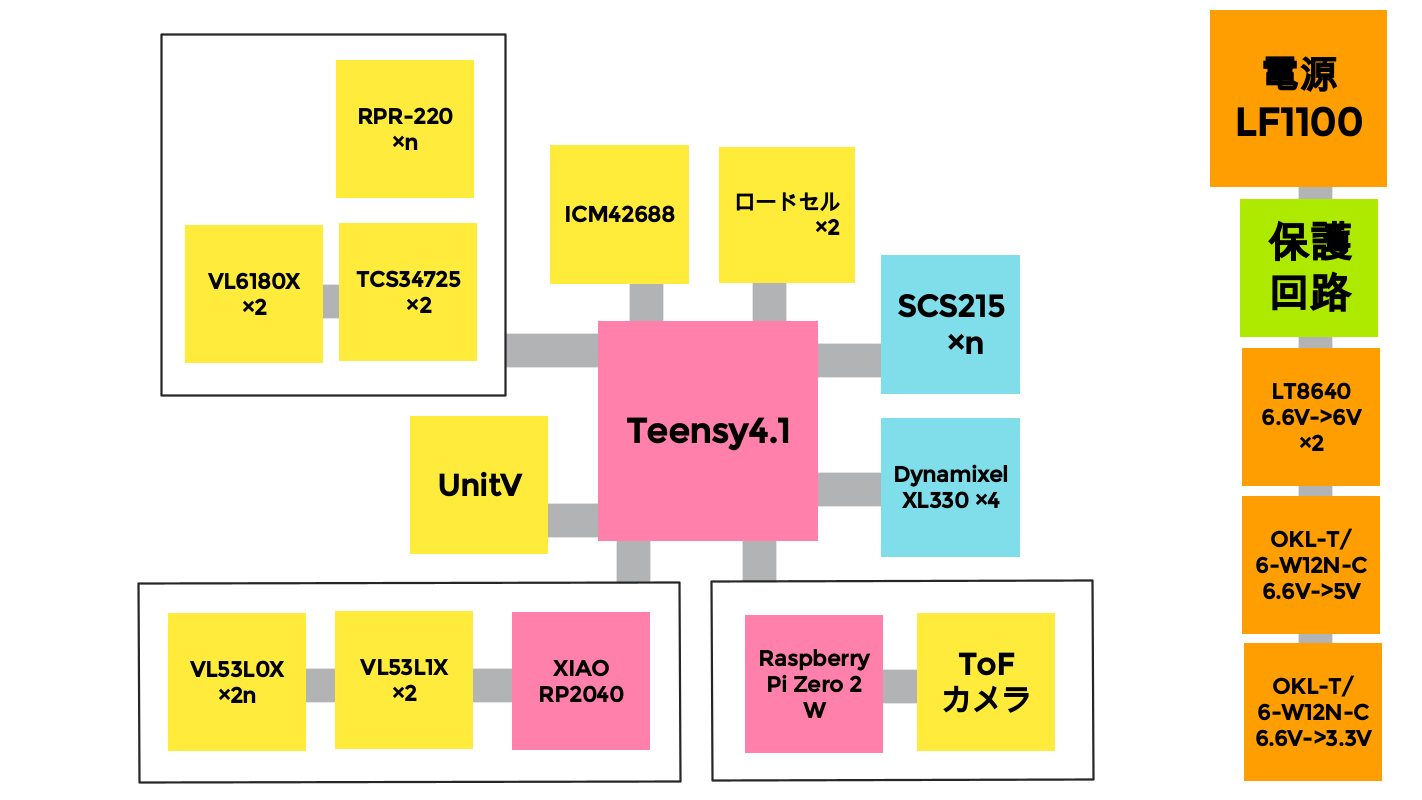
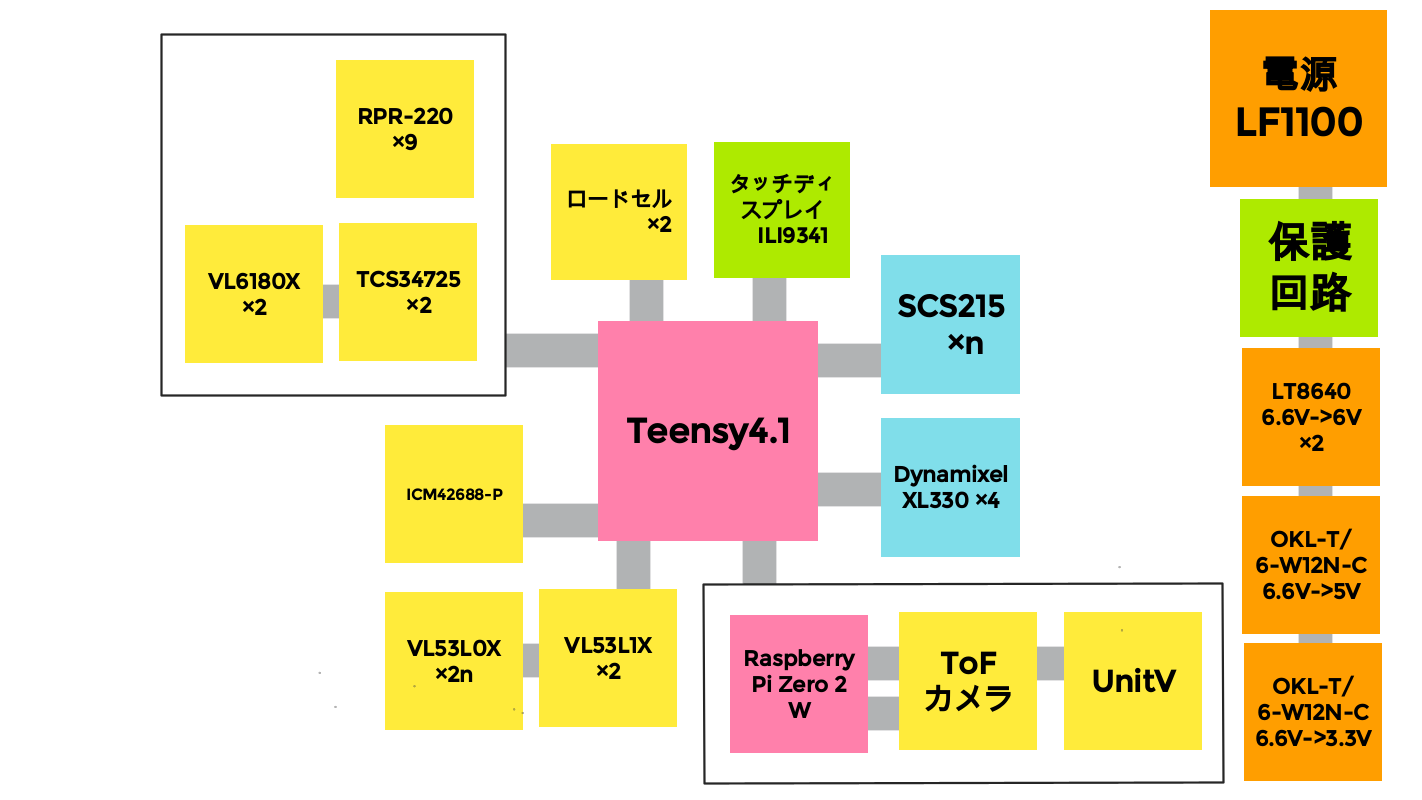
一度お金のことは忘れよう

diff --git a/README.md b/README.md
@@ -1,3 +1,6 @@
+# 構想
+これから作っていくものの大まかな構想
+
 # Abstract
 I cannot join RCJJ2024 due to studying for the entrance exam.  
 And I cannot join RCJJ 2025 because my birthday is in April.  
